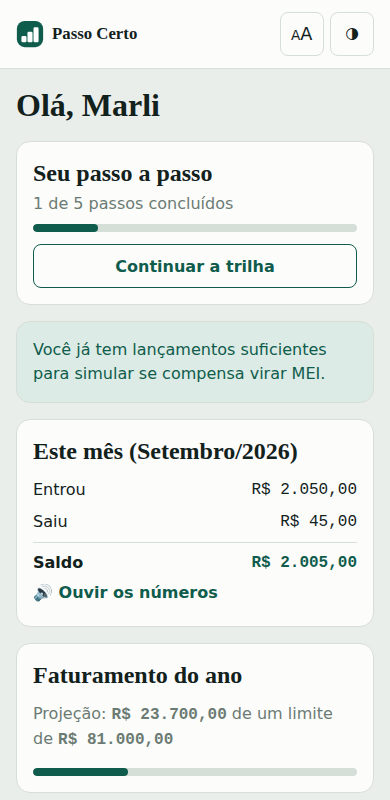
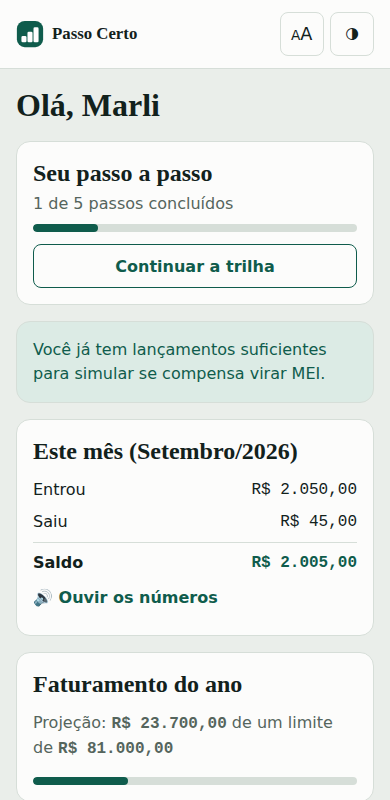
Passe de acessibilidade: corrige contraste e alvo de toque
Auditoria de contraste (WCAG AA, texto normal >= 4.5:1) encontrou dois
pares abaixo do mínimo: --muted sobre --card (4.35) e --amber sobre
--amber-bg (3.17). Escurece as duas cores no tema claro até 6.01 e
5.21 respectivamente, mantendo a leitura visual (cinza-esverdeado e
âmbar). Corrige também o botão "Ouvir os números", que ficava abaixo
de 44px de altura. Adiciona a microlição de CCMEI, que aparecia sem
explicação na trilha de formalização.

Testado com Playwright: sem overflow horizontal em 360px, sem alvos
de toque abaixo de 44px, todo campo com rótulo associado, app
funciona normalmente com localStorage bloqueado, e nenhum erro de
console em nenhuma tela. Capturas do dossiê atualizadas.

Claude-Session: https://claude.ai/code/session_015xvU6CkxRtoE14jYj1TMvj

Changed region(s): [[0.0615, 0.8125, 0.9231, 1.0], [0.0923, 0.7188, 0.5538, 0.7812]]

diff --git a/css/styles.css b/css/styles.css
@@ -191,7 +191,7 @@ a { color: var(--brand); }
 .botao-primario { background: var(--brand); color: #fff; }
 .botao-primario:hover { filter: brightness(1.05); }
 .botao-secundario { background: var(--card); color: var(--brand); border-color: var(--brand); }
-.botao-texto { background: none; border: none; color: var(--brand); font-weight: 600; width: auto; padding: 0.5rem; }
+.botao-texto { background: none; border: none; color: var(--brand); font-weight: 600; width: auto; padding: 0.5rem; min-height: var(--tap-min); display: inline-flex; align-items: center; }
 .botao-perigo { background: var(--critical-bg); color: var(--critical); border-color: var(--critical); }
 .botao:disabled { opacity: 0.5; cursor: not-allowed; }
 

diff --git a/js/telas/formalizar.js b/js/telas/formalizar.js
@@ -106,6 +106,7 @@ function render(container, estado, local) {
         </label>
       `).join('')}
       ${microlicao('CNPJ')}
+      ${microlicao('CCMEI')}
       <p class="ajuda" style="margin-top:0.75rem">
         O Passo Certo não emite CNPJ nem guias — isso é feito de graça no Portal do Empreendedor do governo.
       </p>

diff --git a/css/tokens.css b/css/tokens.css
@@ -8,11 +8,11 @@
   --card: #FCFCFB;
   --ink: #12211C;
   --secondary: #3D4F47;
-  --muted: #6B7B73;
+  --muted: #55655D;
   --line: #D6DED8;
   --brand: #0F5C4C;
   --brand-light: #DCEBE5;
-  --amber: #B87A0E;
+  --amber: #8A5A0A;
   --amber-bg: #FBEFDD;
   --critical: #A93F29;
   --critical-bg: #F7E4DF;
